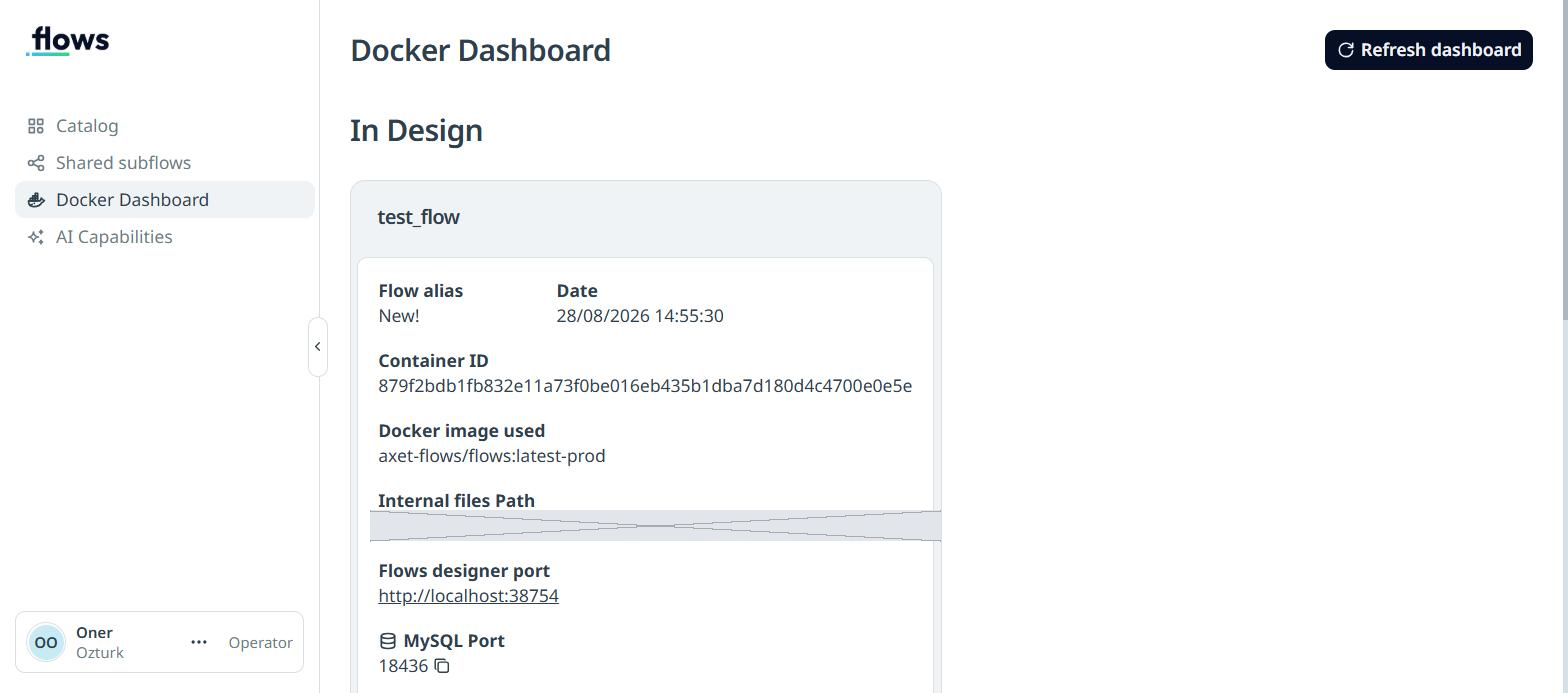
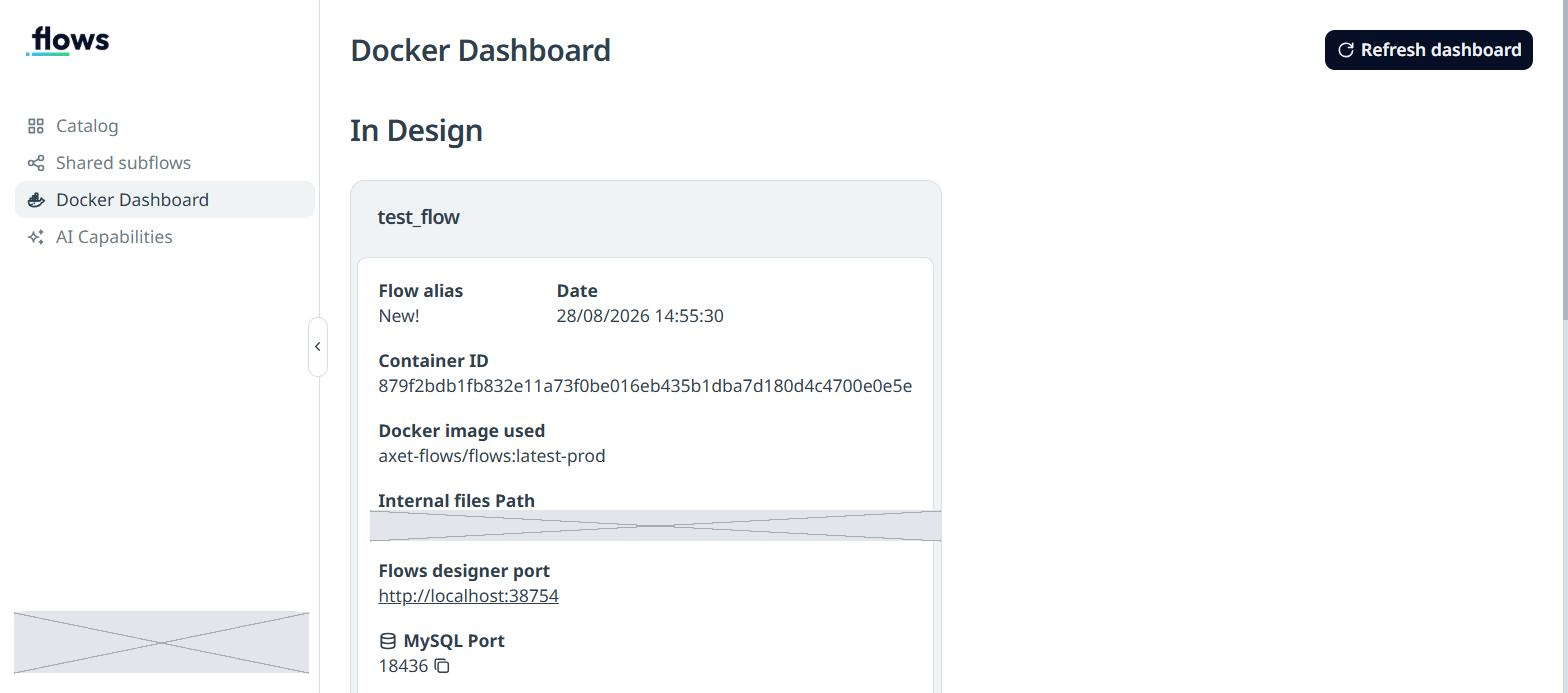
Yayına hazırlık: kurumsal adres maskelendi
- axet.nttdata.com -> <axet-portal-adresiniz> (5 yer)
- README'ye yer tutucu açıklaması eklendi
- Ders 6 görsellerinde kullanıcı kartı maskelendi

Changed region(s): [[0.0, 0.8788, 0.2188, 0.9697]]

diff --git a/README.md b/README.md
@@ -22,7 +22,7 @@ Teknik olarak:
 |---|---|
 | Tasarımcı | Node-RED tabanlı görsel akış editörü |
 | Çalışma ortamı | Docker konteyneri (senin makinende, WSL2 içinde) |
-| Portal | `axet.nttdata.com/flows` — katalog, versiyon ve dağıtım yönetimi |
+| Portal | `<axet-portal-adresiniz>/flows` — katalog, versiyon ve dağıtım yönetimi |
 | Kimlik | Okta (NTT kurumsal hesabı) |
 | Yetenekler | SikuliX (görsel GUI otomasyonu), Tesseract OCR, PDFBox, SSH/SFTP |
 
@@ -51,6 +51,15 @@ sizden bağımsız çalışır halde bırakabilirsiniz.
 > 💡 **Ders 6'yı atlamayın.** Akışlarınız tasarımcı konteynerinde yaşar;
 > versiyon kaydetmezseniz konteynerle birlikte kaybolurlar.
 
+## Adres yer tutucusu hakkında
+
+Dokümanlarda geçen `<axet-portal-adresiniz>` ifadesini **kendi kurumunuzun
+aXet.flows portal adresiyle** değiştirin. Adresi bilmiyorsanız aXet.flows
+Desktop uygulamasını açın veya kurumunuzun IT/platform ekibine sorun.
+
+Aynı şekilde AI ajanı derslerindeki proje ve model seçimleri de kuruma
+özgüdür; açılır menülerde kendi projelerinizi göreceksiniz.
+
 ## Ön koşullar
 
 - Windows 10/11, NTT kurumsal makinesi
@@ -63,7 +72,7 @@ sizden bağımsız çalışır halde bırakabilirsiniz.
 
 ```
 1. aXet.flows Desktop uygulamasını başlat, hazır olmasını bekle
-2. https://axet.nttdata.com/flows/frontend/ → Okta ile giriş
+2. https://<axet-portal-adresiniz>/flows/frontend/ → Okta ile giriş
 3. Catalog → flow seç → New Version → Regular Deployment
 4. Docker imajı iner (ilk seferde ~2.2 GB), tasarımcı yeni sekmede açılır
 5. kaynaklar/ornek-01-akis.json dosyasını import et

diff --git a/01-kurulum.md b/01-kurulum.md
@@ -9,7 +9,7 @@ Kurulum sırasında ne olduğunu bilmezseniz hata mesajları anlamsız gelir.
 Zincir şöyle:
 
 ```
-Tarayıcı (portal)          → axet.nttdata.com/flows
+Tarayıcı (portal)          → <axet-portal-adresiniz>/flows
        │                     katalog, versiyon, dağıtım yönetimi
        ▼
 aXet.flows Desktop         → yerel ajan, https://localhost:65430
@@ -77,7 +77,7 @@ Bu, kurulumun en çok yanlış bilinen kısmı: WSL platformu zaten etkinse
 ### Portal erişilebilir mi?
 
 ```powershell
-(Invoke-WebRequest -Uri 'https://axet.nttdata.com/flows/frontend/' -UseBasicParsing).StatusCode
+(Invoke-WebRequest -Uri 'https://<axet-portal-adresiniz>/flows/frontend/' -UseBasicParsing).StatusCode
 ```
 
 `200` dönmeli. Dönmüyorsa VPN/ağ sorunudur.
@@ -136,7 +136,7 @@ netstat -ano | Select-String ':2222'
 
 ## 1.4 Portala giriş
 
-1. Tarayıcıda `https://axet.nttdata.com/flows/frontend/` açın
+1. Tarayıcıda `https://<axet-portal-adresiniz>/flows/frontend/` açın
 2. Okta giriş ekranına yönlendirilirsiniz (*"aXet Platform erişimi için
    hesabınızla oturum açın"*)
 3. NTT kurumsal hesabınızla girin + MFA onayı
